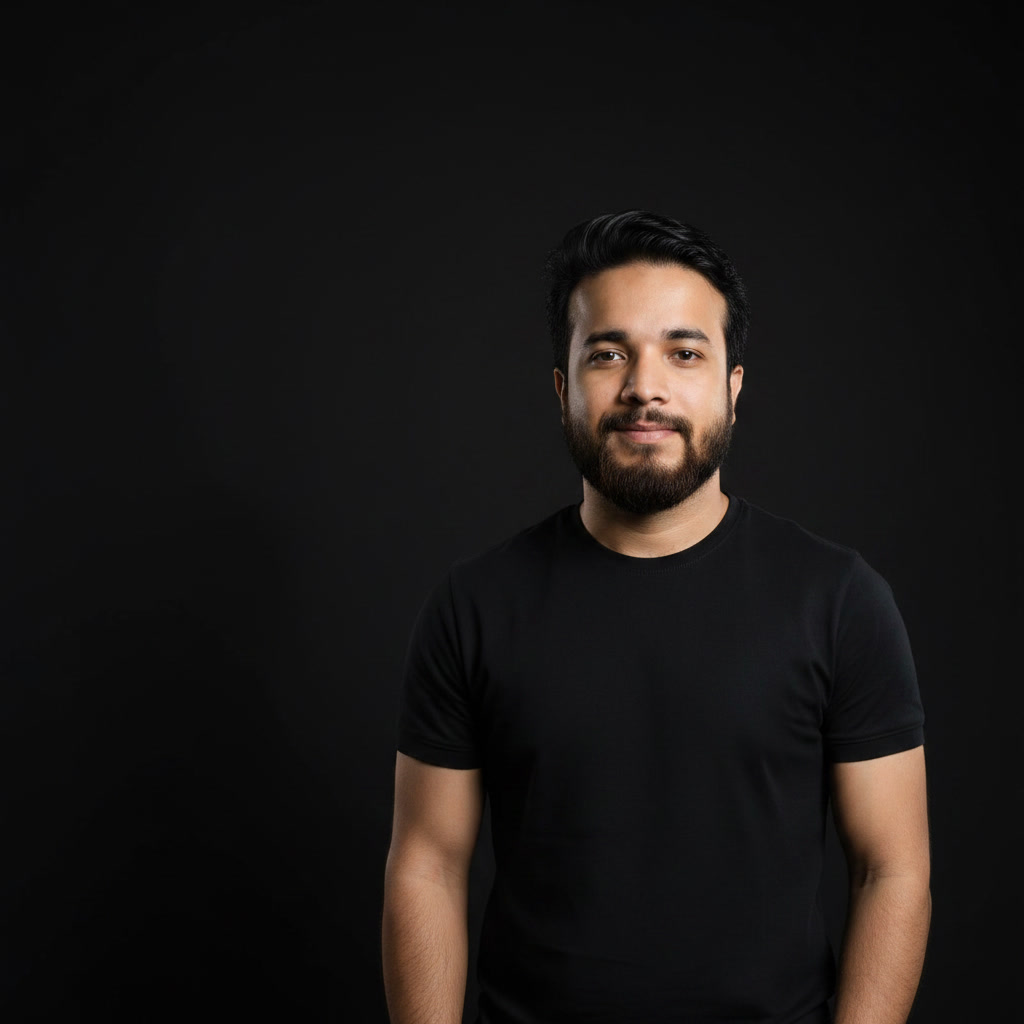
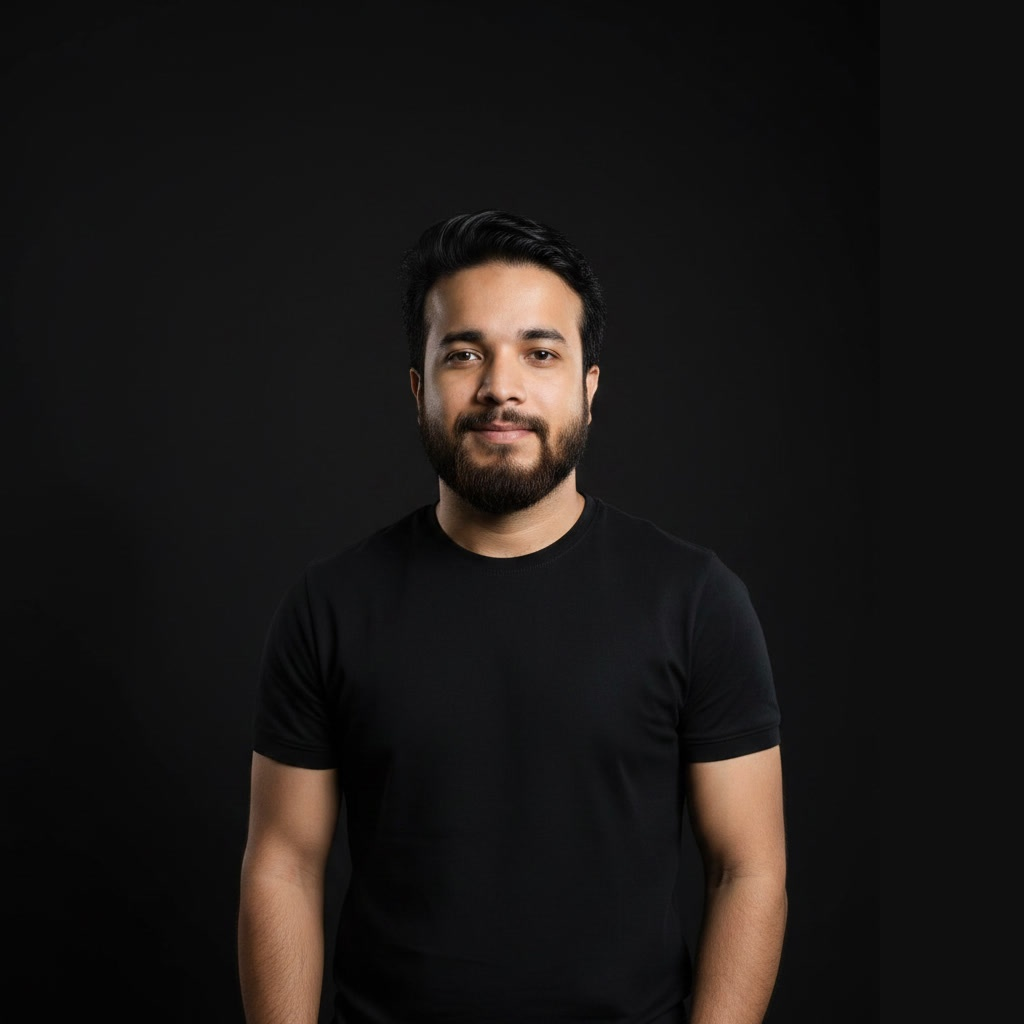
Center image horizontally in right column, align to bottom, and center person inside portrait

diff --git a/src/routes/index.tsx b/src/routes/index.tsx
@@ -173,7 +173,7 @@ function Hero() {
       <div className="absolute bottom-0 left-1/3 h-80 w-80 rounded-full bg-accent/25 blur-3xl animate-blob" style={{ animationDelay: "-8s" }} />
 
       <div className="relative mx-auto max-w-7xl px-4 sm:px-6 pt-10 pb-24 lg:pt-16 lg:pb-32">
-        <div className="grid gap-12 lg:grid-cols-12 lg:gap-12 items-center">
+        <div className="grid gap-12 lg:grid-cols-12 lg:gap-12 items-end">
           <div className="lg:col-span-7">
             <motion.span
               initial={{ opacity: 0, y: 10 }} animate={{ opacity: 1, y: 0 }} transition={{ duration: 0.6 }}
@@ -224,7 +224,7 @@ function Hero() {
             </motion.div>
           </div>
 
-          <div className="lg:col-span-5 flex justify-center lg:justify-end">
+          <div className="lg:col-span-5 flex justify-center items-end w-full">
             <HeroVisual />
           </div>
         </div>
@@ -239,7 +239,7 @@ function HeroVisual() {
       initial={{ opacity: 0, y: 30 }}
       animate={{ opacity: 1, y: 0 }}
       transition={{ duration: 0.8, delay: 0.3 }}
-      className="relative w-full max-w-[370px] mx-auto lg:mr-0"
+      className="relative w-full max-w-[360px] mx-auto"
     >
       {/* Dynamic Ambient Glow Behind Card */}
       <div className="absolute -inset-4 rounded-[2.5rem] bg-gradient-brand opacity-30 blur-2xl pointer-events-none" />
